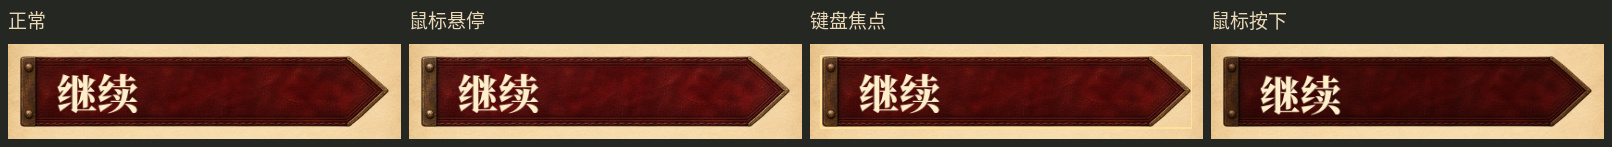
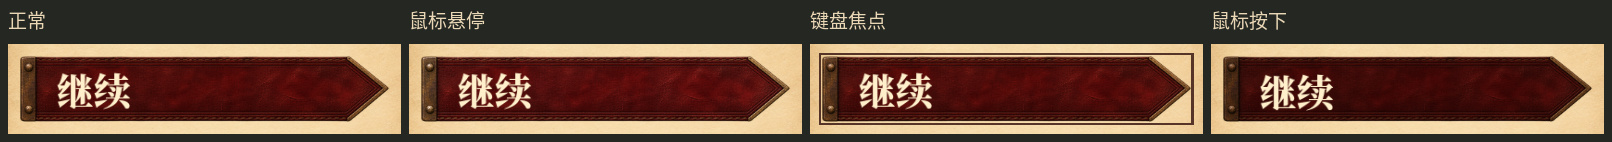
加深主菜单键盘焦点描边并复拍按钮状态

diff --git a/docs/reports/testing/2026-11-19-menu-components.md b/docs/reports/testing/2026-11-19-menu-components.md
@@ -9,6 +9,8 @@
 3. 在临时存档环境同时触发两条存档提示。英文大字号下，两段长文本均能在右下纸签中换行，纸签完整落在视口内，与左侧按钮分开。
 4. 导出玩家资源包，独立读取双语字标、登记簿封面、皮签、纸边、三个索引图标与提示纸纹。
 
+缩略图复核时，初版浅金焦点线与纸面较接近。已换成外扩的深褐描边并用实际 Tab 输入复拍。
+
 Godot 4.7.1 主菜单套件在小、中、大字号下各通过 85 项断言，字体覆盖通过 42 项。全项目脚本加载完成，玩家资源包中的 9 张组件贴图均可独立加载。部分进程在退出时报告渲染资源仍在使用。本轮覆盖主菜单与提示卡片，未运行全量套件。
 
 [同档画面对照](../../../handoff/art-review/menu-interface-comparison.jpg) · [主按钮输入状态](../../../handoff/art-review/menu-button-input-states.jpg) · [大字号样张](../../../handoff/art-review/menu-large-type-and-new-game.jpg)
